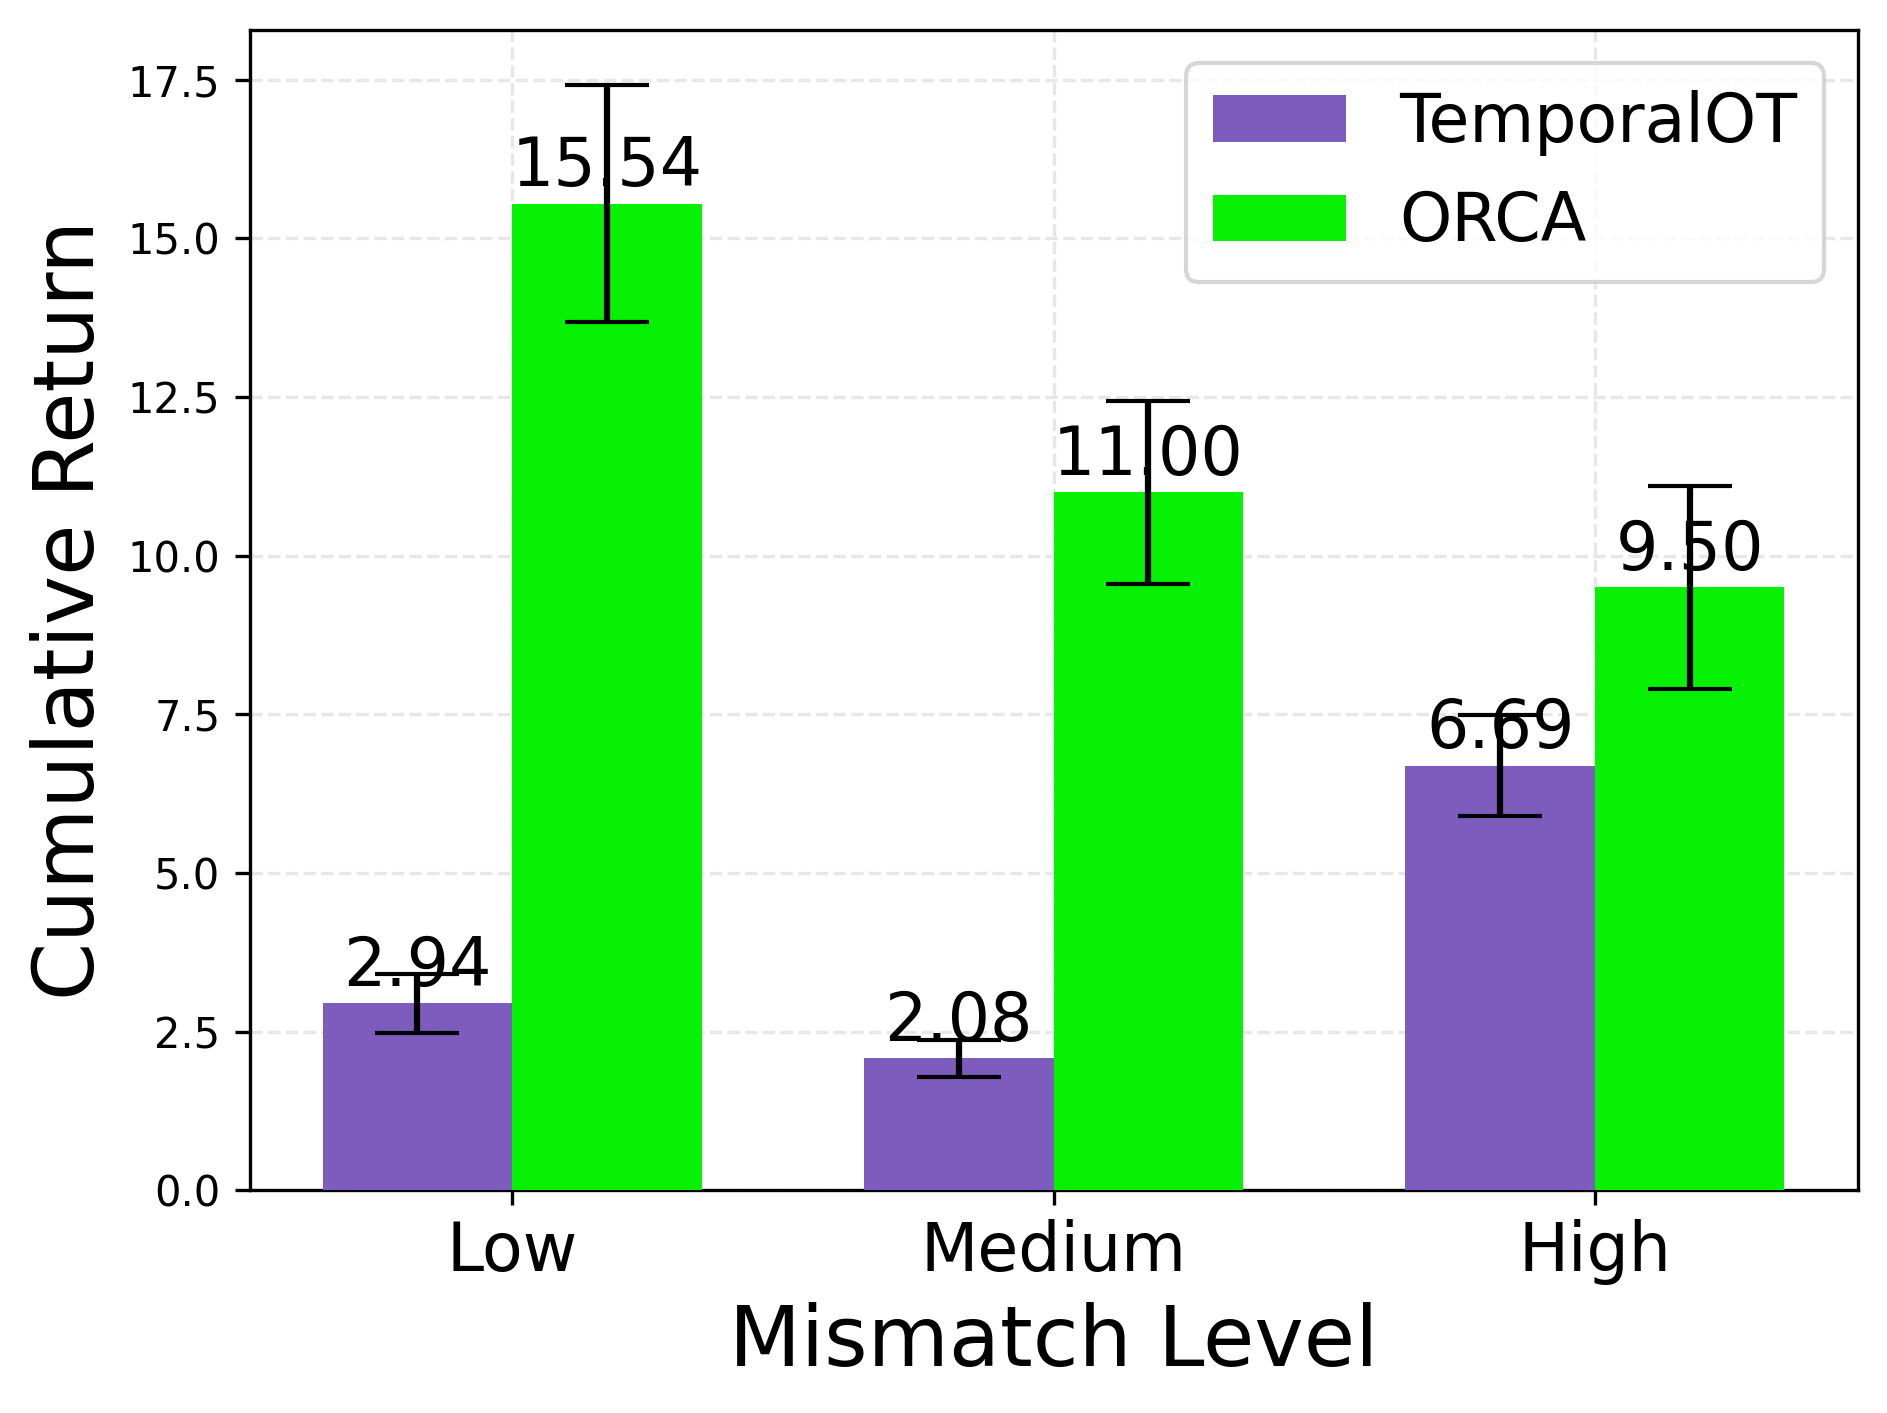
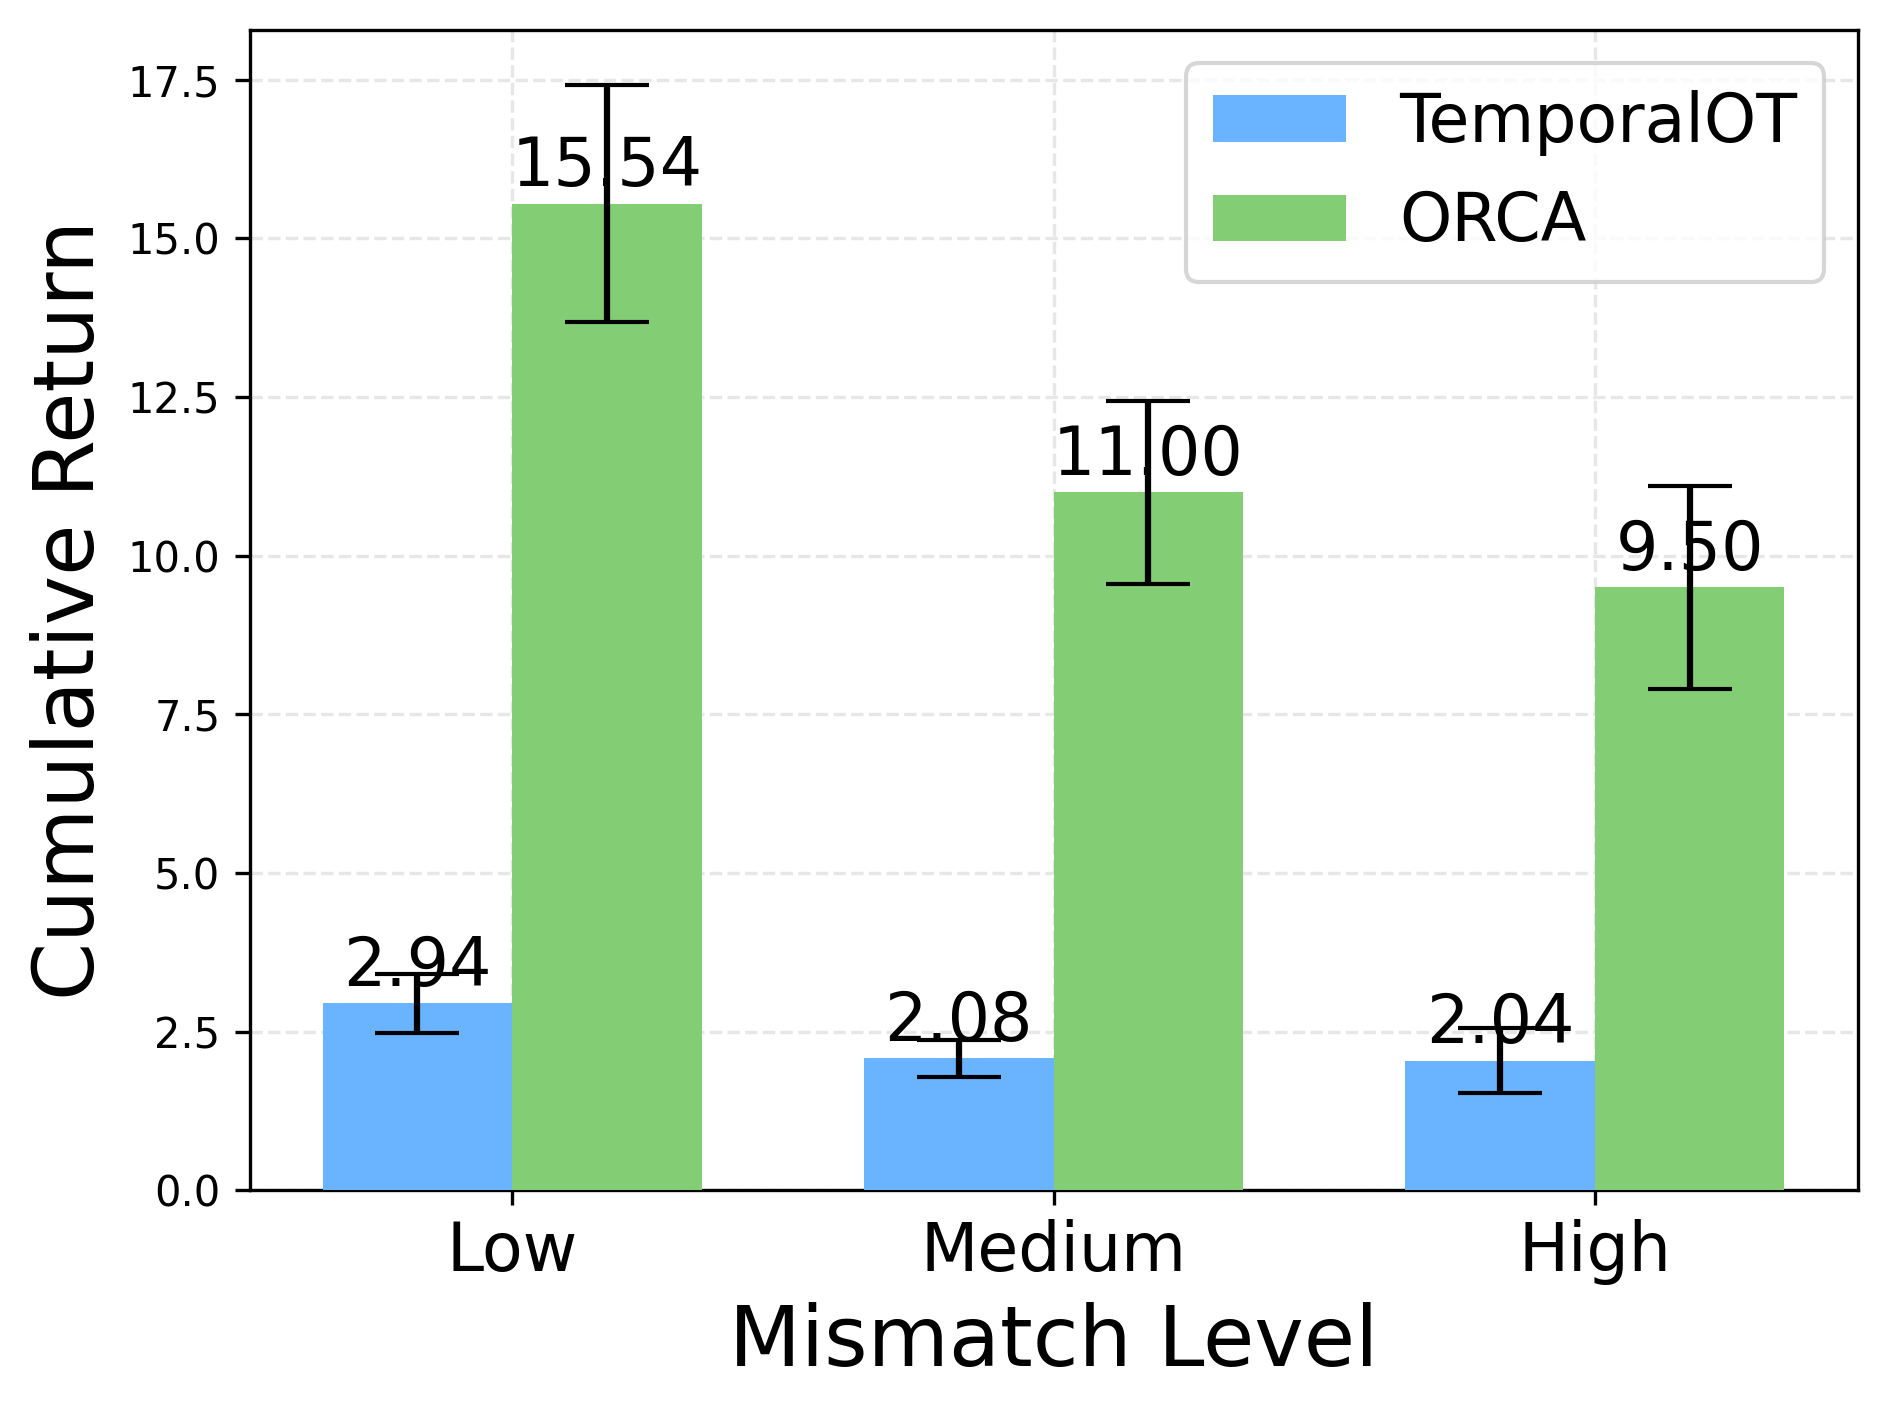
slow ablation

diff --git a/demo/create_random_mismatch_traj.py b/demo/create_random_mismatch_traj.py
@@ -5,6 +5,8 @@ Usage (at the top directory): python -m demo.create_random_mismatch_traj
 import os
 import numpy as np
 import json
+import copy
+from PIL import Image
 
 from .constants import get_demo_dir, get_demo_gif_path
 from .subsample_gifs_and_states import load_frames_and_states, save_frames_and_states
@@ -25,9 +27,13 @@ Trim the demo after being successful consecutively for 10% of total timesteps
             - ...
 """
 
-MISMATCH_SPEED_LEVELS = [2, 4, 6, 8, 10]
+MISMATCH_SPEED_LEVELS = {
+    "fast": [2, 4, 6, 8, 10],
+    "slow": [-1, -2, -3, -4, -5],  # Number of duplicates
+    "mixed": []
+}
 
-def random_subsample_gif_and_states(input_gif_path, output_dir, mismatch_level, num_of_sections, pct_of_success_needed=0.1):
+def random_subsample_gif_and_states(input_gif_path, output_dir, speed_type, mismatch_level, num_of_sections, pct_of_success_needed=0.1):
     # Ensure output directory exists
     os.makedirs(output_dir, exist_ok=True)
     base_name = os.path.splitext(os.path.basename(input_gif_path))[0]
@@ -67,11 +73,29 @@ def random_subsample_gif_and_states(input_gif_path, output_dir, mismatch_level, 
     for i in range(num_of_sections):
         if i in mismatched_section:
             # Randomly select a subsample speed level
-            available_speed_levels = [level for level in MISMATCH_SPEED_LEVELS if level < num_frames_per_section]
+            if mismatch_level == 5:
+                if i == 0:
+                    # Without replacement
+                    available_speed_levels = copy.deepcopy(MISMATCH_SPEED_LEVELS[speed_type])
 
-            speed_level = np.random.choice(available_speed_levels)
+                speed_level = np.random.choice(available_speed_levels)   
+                # Pop the selected speed level
+                available_speed_levels.remove(speed_level) 
+            else:
+                available_speed_levels = [level for level in MISMATCH_SPEED_LEVELS[speed_type] if level < num_frames_per_section]
 
-            subsampled_indices = list(range(i * num_frames_per_section, (i + 1) * num_frames_per_section))[::speed_level]
+                speed_level = np.random.choice(available_speed_levels)
+
+            if speed_level < 0:
+                # We duplicate the frames consecutively
+                # Original indices is 1, 2, 3, 4, 5
+                # And num_of_dup=1, then the duplicated indices is 1, 1, 2, 2, 3, 3, 4, 4, 5, 5
+                num_of_dup = abs(speed_level)
+
+                subsampled_indices = list(range(i * num_frames_per_section, (i + 1) * num_frames_per_section))
+                subsampled_indices = [idx for idx in subsampled_indices for _ in range(num_of_dup + 1)]
+            else:
+                subsampled_indices = list(range(i * num_frames_per_section, (i + 1) * num_frames_per_section))[::speed_level]
 
             print(f"i={i}, speed_level={speed_level}, len={len(subsampled_indices)}, {subsampled_indices}")
 
@@ -97,26 +121,58 @@ def random_subsample_gif_and_states(input_gif_path, output_dir, mismatch_level, 
     print(f"[len={len(mismatched_selected_idx)}] Saving the mismatched trajectory at {output_dir}")
     print("=====================")
 
-    mismatched_frames = [frames[i] for i in mismatched_selected_idx]
-    mismatched_states = states[mismatched_selected_idx]
+    mismatched_frames = []
+    prev_idx = -1
+    for idx in mismatched_selected_idx:
+        frame_arr = np.array(frames[idx].convert('RGB'))
+        if idx == prev_idx:
+            # Add minor perturbation because python gif library (PIL/Imageio) does not support duplicate frames
+            episilon = 0.00000001
+            # noise = np.random.uniform(-episilon, episilon, frame_arr.shape).astype(np.float32)
+            noise = np.zeros(frame_arr.shape)
+            # Randomly pick a channel to perturb
+            noise[:, :, np.random.randint(0, frame_arr.shape[2])] = np.random.uniform(-episilon, episilon, frame_arr.shape[:2]).astype(np.float32)
+
+            # TODO: perturbing one frame is not enough. Adding all the noise might produce too much difference in resnet encoding though. Need to try
+            # noise = np.zeros(frame_arr.shape)
+            # perturb_idx = (np.random.randint(0, frame_arr.shape[0]), np.random.randint(0, frame_arr.shape[1]), np.random.randint(0, frame_arr.shape[2]))
+            # noise[perturb_idx] = np.random.uniform(-episilon, episilon)
+
+            frame_arr = np.clip(frame_arr + noise * 255, 0, 255).astype(np.uint8)
+        
+        mismatched_frames.append(frame_arr)
+        prev_idx = idx
+
+    mismatched_frames = [Image.fromarray(arr) for arr in mismatched_frames]
+    # mismatched_frames = [np.array(frames[i].convert("RGB")) for i in mismatched_selected_idx]
+    mismatched_states = np.array([states[i] for i in mismatched_selected_idx])
+
+    print(f"len(mismatched_frames)={len(mismatched_frames)}, len(mismatched_states)={len(mismatched_states)}")
+
+    # input("before saving")
 
     # Save the mismatched trajectory
-    save_frames_and_states(mismatched_frames, os.path.join(output_dir, f"{base_name}.gif"), mismatched_states, os.path.join(output_dir, f"{base_name}_states.npy"))
+    save_frames_and_states(mismatched_frames, os.path.join(output_dir, f"{base_name}.gif"), mismatched_states, os.path.join(output_dir, f"{base_name}_states.npy"), use_pil = 'fast' == speed_type)
+
+    saved_frames, saved_states = load_frames_and_states(os.path.join(output_dir, f"{base_name}.gif"), os.path.join(output_dir, f"{base_name}_states.npy"))
+
+    if len(saved_frames) != len(mismatched_frames) or len(saved_states) != len(mismatched_states) or len(saved_frames) != len(saved_states):
+        raise ValueError(f"Error in saving the mismatched trajectory: len(saved_frames)={len(saved_frames)}, len(saved_states)={len(saved_states)}")
 
     # Save the mismatched info as json
     with open(os.path.join(output_dir, f"{base_name}_mismatched_info.json"), 'w') as f:
         json.dump(mismatched_info, f, indent=4)
-    
 
-
-def create_random_mismatch_trajs(input_gif_path, mismatch_level, num_of_sections, num_traj):
+def create_random_mismatch_trajs(input_gif_path, speed_type, mismatch_level, num_of_sections, num_traj):
     for i in range(num_traj):
         output_dir = get_demo_dir(env_name, task_name, camera_name, mismatched=False, random_mismatched_info=
-                                  {'mismatch_level': f'{mismatch_level}outof{num_of_sections}_mismatched', 
-                                   'run_num': i}) 
+                                  {
+                                    'speed_type': speed_type,
+                                    'mismatch_level': f'{mismatch_level}outof{num_of_sections}_mismatched', 
+                                    'run_num': i}) 
         
         if os.path.exists(input_gif_path):
-            random_subsample_gif_and_states(input_gif_path, output_dir, mismatch_level, num_of_sections)
+            random_subsample_gif_and_states(input_gif_path, output_dir, speed_type, mismatch_level, num_of_sections)
         else:
             print(f"{input_gif_path} does not exist")
 
@@ -124,6 +180,7 @@ if __name__ == "__main__":
     env_name = "metaworld"
     task_name = "lever-pull-v2"
     camera_name = "d"
+    speed_type = 'slow'  # options: 'fast', 'slow', 'mixed'
     mismatch_level = [1, 3, 5]
     num_of_sections = 5 # How many subsection to partition the demo into
     num_traj = 3
@@ -134,6 +191,6 @@ if __name__ == "__main__":
 
     if type(mismatch_level) == list:
         for level in mismatch_level:
-            create_random_mismatch_trajs(input_gif_path, level, num_of_sections, num_traj)
+            create_random_mismatch_trajs(input_gif_path, speed_type, level, num_of_sections, num_traj)
     elif type(mismatch_level) == int:
-        create_random_mismatch_trajs(input_gif_path, mismatch_level, num_of_sections, num_traj)
+        create_random_mismatch_trajs(input_gif_path, speed_type, mismatch_level, num_of_sections, num_traj)

diff --git a/demo/constants.py b/demo/constants.py
@@ -15,11 +15,12 @@ def get_demo_gif_path(env_name, task_name, camera_name, demo_num, num_frames='d'
     dir_path = get_demo_dir(env_name, task_name, camera_name, num_frames, mismatched, random_mismatched_info)
     return os.path.join(dir_path, f"{task_name}_{camera_name}_{demo_num}.gif")
 
-def get_demo_dir(env_name, task_name, camera_name, num_frames='d', mismatched=False, random_mismatched_info={}):
+def get_demo_dir(env_name, task_name, camera_name, num_frames='d', mismatched=False, random_mismatched_info={}, linear_mismatched_info={}):
     """
     Parameters:
     - random_mismatched_info: If we are getting demo for random mismatched trajectory. Should have the keys:
         {
+            'speed_type': 'fast', # options: 'fast', 'slow', 'mixed'
             'mismatch_level': '1outof5_mismatched', # options: '1outof5_mismatched', '2outof5_mismatched', '3outof5_mismatched'
             'run_num': 0
         }
@@ -33,10 +34,10 @@ def get_demo_dir(env_name, task_name, camera_name, num_frames='d', mismatched=Fa
         else:
             return os.path.join(BASE_DEMO_DIR, f"{env_name}_demos/{task_name}/mismatched/subsampled_{num_frames}")
     elif random_mismatched_info != {}:
-        # one of '1outof5_mismatched', '2outof5_mismatched', '3outof5_mismatched'
-        mismatch_level = random_mismatched_info['mismatch_level']
+        speed_type = random_mismatched_info['speed_type']
+        mismatch_level = random_mismatched_info['mismatch_level']  # one of '1outof5_mismatched', '2outof5_mismatched', '3outof5_mismatched'
         run_num = int(random_mismatched_info['run_num'])
-        return os.path.join(BASE_DEMO_DIR, f"{env_name}_demos/{task_name}/random_mismatched/{mismatch_level}/{mismatch_level}_{run_num}")
+        return os.path.join(BASE_DEMO_DIR, f"{env_name}_demos/{task_name}/random_mismatched_{speed_type}/{mismatch_level}/{mismatch_level}_{run_num}")
     elif num_frames == "d":
         return os.path.join(BASE_DEMO_DIR, f"{env_name}_demos/{task_name}/default")
     else:

diff --git a/eval/gen_training_curves.py b/eval/gen_training_curves.py
@@ -23,9 +23,9 @@ if __name__ == "__main__":
     parser.add_argument('-e', '--exp', type=str, required=True, choices=['mismatched', 'matched'], help='Experiment name')
     args = parser.parse_args()
 
-    # tasks_to_plot = ["Door-close", "Door-open", "Stick-push"]
+    tasks_to_plot = ["Door-open", "Door-close", "Stick-push"]
     # All the tasks
-    tasks_to_plot = ["Button-press", "Door-close", "Door-open", "Window-open", "Lever-pull", "Hand-insert", "Push", "Basketball", "Stick-push", "Door-lock"]
+    # tasks_to_plot = ["Button-press", "Door-close", "Door-open", "Window-open", "Lever-pull", "Hand-insert", "Push", "Basketball", "Stick-push", "Door-lock"]
 
     # Load the CSV file
     csv_file = os.path.join("eval/eval_path_csv", f"{args.domain}_{args.exp}.csv")
@@ -52,6 +52,7 @@ if __name__ == "__main__":
                     run_num = int(row["Runs"])-1  # The csv starts with 1
 
                     for t in range(10000, 1000001, 10000):
+                        
                         eval_path = os.path.join(approach_dir, "eval", f"{t}_return.npy")
 
                         if isinstance(eval_path, str) and os.path.exists(eval_path):
@@ -122,7 +123,7 @@ if __name__ == "__main__":
         plt.title(task.replace("-", " ").title() + f" (ep-len={MAX_PATH_LENGTH[task.lower() + '-v2']})", fontsize=20)
         
         # Save plot
-        plt_save_path = os.path.join("eval/eval_agg_results/eval_training_curves", f"{args.domain}_{args.exp}_{task.lower()}_training_curves.png")
+        plt_save_path = os.path.join(f"eval/eval_agg_results/eval_training_curves_{args.exp}", f"{args.domain}_{args.exp}_{task.lower()}_training_curves.png")
 
         plt.savefig(plt_save_path, dpi=300, bbox_inches='tight')
         plt.close()

diff --git a/main.py b/main.py
@@ -145,7 +145,14 @@ def run(cfg, wandb_run=None):
                         context_num=cfg.context_num,
                         use_encoder=use_encoder)
     if cfg.use_ckpt:
-        with open("./utils/temporalot_checkpoint_path.json", 'r') as f:
+        if cfg.mismatched and not cfg.random_mismatched:
+            exp_type = "mismatched"
+        elif not cfg.mismatched and not cfg.random_mismatched:
+            exp_type = "matched"
+        else:
+            raise Exception("Random mismatched not supported for pretrained models")
+
+        with open(f"./utils/temporalot_checkpoint_path_{exp_type}.json", 'r') as f:
             temporalot_checkpoint_path = json.load(f)
 
         assert env_name in temporalot_checkpoint_path, f"Error: no checkpoint for task {env_name}"
@@ -189,7 +196,8 @@ def run(cfg, wandb_run=None):
         if cfg.random_mismatched:
             random_mismatched_info = {
                 'mismatch_level': f'{cfg.mismatched_level}outof{cfg.num_secs}_mismatched',
-                'run_num': int(cfg.random_mismatched_run_num)
+                'run_num': int(cfg.random_mismatched_run_num),
+                'speed_type': cfg.speed_type
             }
         else:
             random_mismatched_info = {}
@@ -418,7 +426,10 @@ def run_wandb(cfg):
     if cfg.mismatched:
         tags.append("mismatched")
     elif cfg.random_mismatched:
-        tags.append(f"random_mismatched_{cfg.mismatched_level}outof{cfg.num_secs}")
+        if cfg.speed_type == "fast":
+            tags.append(f"random_mismatched_{cfg.mismatched_level}outof{cfg.num_secs}")
+        else:
+            tags.append(f"random_{cfg.speed_type}_mismatched_{cfg.mismatched_level}outof{cfg.num_secs}")
     else:
         tags.append("matched")
 

diff --git a/models/rl.py b/models/rl.py
@@ -340,12 +340,12 @@ class DDPGAgent:
                 self.encoder.parameters(), lr=self.lr)
             self.encoder_opt.load_state_dict(
                 payload["encoder_opt"].state_dict())
-        # self.actor_opt = optim.Adam(
-        #     self.actor.parameters(), lr=self.lr)
-        # self.actor_opt.load_state_dict(
-        #     payload["actor_opt"].state_dict())
-        # self.critic_opt = optim.Adam(
-        #     self.critic.parameters(), lr=self.lr)
-        # self.critic_opt.load_state_dict(
-        #     payload["critic_opt"].state_dict())
+        self.actor_opt = optim.Adam(
+            self.actor.parameters(), lr=self.lr)
+        self.actor_opt.load_state_dict(
+            payload["actor_opt"].state_dict())
+        self.critic_opt = optim.Adam(
+            self.critic.parameters(), lr=self.lr)
+        self.critic_opt.load_state_dict(
+            payload["critic_opt"].state_dict())
 

diff --git a/demo/subsample_gifs_and_states.py b/demo/subsample_gifs_and_states.py
@@ -25,13 +25,19 @@ def load_frames_and_states(input_gif_path, input_states_path=None):
 
     return frames, states
 
-def save_frames_and_states(frames, gif_path, states, states_path):
-    frames[0].save(
-        gif_path,
-        save_all=True,
-        append_images=frames[1:],
-        loop=0
-    )
+def save_frames_and_states(frames, gif_path, states, states_path, use_pil=True):
+    if use_pil:
+        frames[0].save(
+            gif_path,
+            save_all=True,
+            append_images=frames[1:],
+            loop=0
+        )
+    else:
+        import imageio
+
+        imageio.mimsave(gif_path, frames, duration=0.1, loop=0, plugin="pillow", optimize=False, disposal=2)  # duration is in seconds
+
     np.save(states_path, states)
 
 def evenly_subsample_gif_and_states(input_gif_path, output_dir, N, last_frame=None, cut_after_N_consecutive_success=None, input_states_path=None):

diff --git a/eval/gen_random_mismatched_eval_results.py b/eval/gen_random_mismatched_eval_results.py
@@ -147,9 +147,9 @@ plt.bar(x + width/2, means_plot['ORCA'], width, yerr=ses_plot['ORCA'], label='OR
 
 # Add the mean values on top of the bars
 for i, mean_val in enumerate(means_plot['TemporalOT']):
-    plt.text(i - width/2, mean_val + 0.05, f"{mean_val:.2f}", ha='center', va='bottom', zorder=4, fontsize=16)
+    plt.text(i - width/2 + 0.001, mean_val + 0.05, f"{mean_val:.2f}", ha='center', va='bottom', zorder=4, fontsize=16)
 for i, mean_val in enumerate(means_plot['ORCA']):
-    plt.text(i + width/2, mean_val + 0.05, f"{mean_val:.2f}", ha='center', va='bottom', zorder=4, fontsize=16)
+    plt.text(i + width/2 + 0.001, mean_val + 0.05, f"{mean_val:.2f}", ha='center', va='bottom', zorder=4, fontsize=16)
 
 # Adding labels, title, and legend
 plt.xlabel('Mismatch Level', fontsize=20)

diff --git a/eval/convert_to_checkpoint.py b/eval/convert_to_checkpoint.py
@@ -2,7 +2,9 @@ import pandas as pd
 import os
 import json
 
-df = pd.read_csv("/share/portal/hw575/TemporalOT/eval/eval_path_csv/metaworld_matched.csv")
+exp = "mismatched"
+
+df = pd.read_csv(f"/share/portal/hw575/TemporalOT/eval/eval_path_csv/metaworld_{exp}.csv")
 
 checkpoint_path = {}
 
@@ -26,5 +28,5 @@ for index, row in df.iterrows():
             "used": "unclaimed" # unclaimed, claimed, completed
         }
 
-with open("utils/temporalot_checkpoint_path.json", 'w') as f:
+with open(f"utils/temporalot_checkpoint_path_{exp}.json", 'w') as f:
     json.dump(checkpoint_path, f, indent=4)

diff --git a/eval/eval_constants.py b/eval/eval_constants.py
@@ -1,8 +1,8 @@
 APPROACH_COLOR_DICT = {
     "ORCA+TOT pretrained (500k-500k)": "#19825F",
-    "ORCA": "#06F103",
-    "TemporalOT": "#7D5CBD",
-    "OT": "#69B3FF",
+    "ORCA": "#83CE74",
+    "TemporalOT": "#69B3FF",
+    "OT": "#7D5CBD",
     "DTW": "#E3247F",
     "Threshold": "#EF772B",
     "RoboCLIP": "#5B5B5B"

diff --git a/eval/gen_eval_results.py b/eval/gen_eval_results.py
@@ -156,7 +156,7 @@ if __name__ == "__main__":
         plt.text(approach_name, iqm + 0.005, f"{iqm:.2f}", ha='center', va='bottom', fontsize=16)
 
     plt.xticks(fontsize=16)
-    plt.ylabel('IQM Success Rate', fontsize=20)
+    plt.ylabel('IQM Cumulative Return', fontsize=20)
 
     plt.tight_layout()
 
